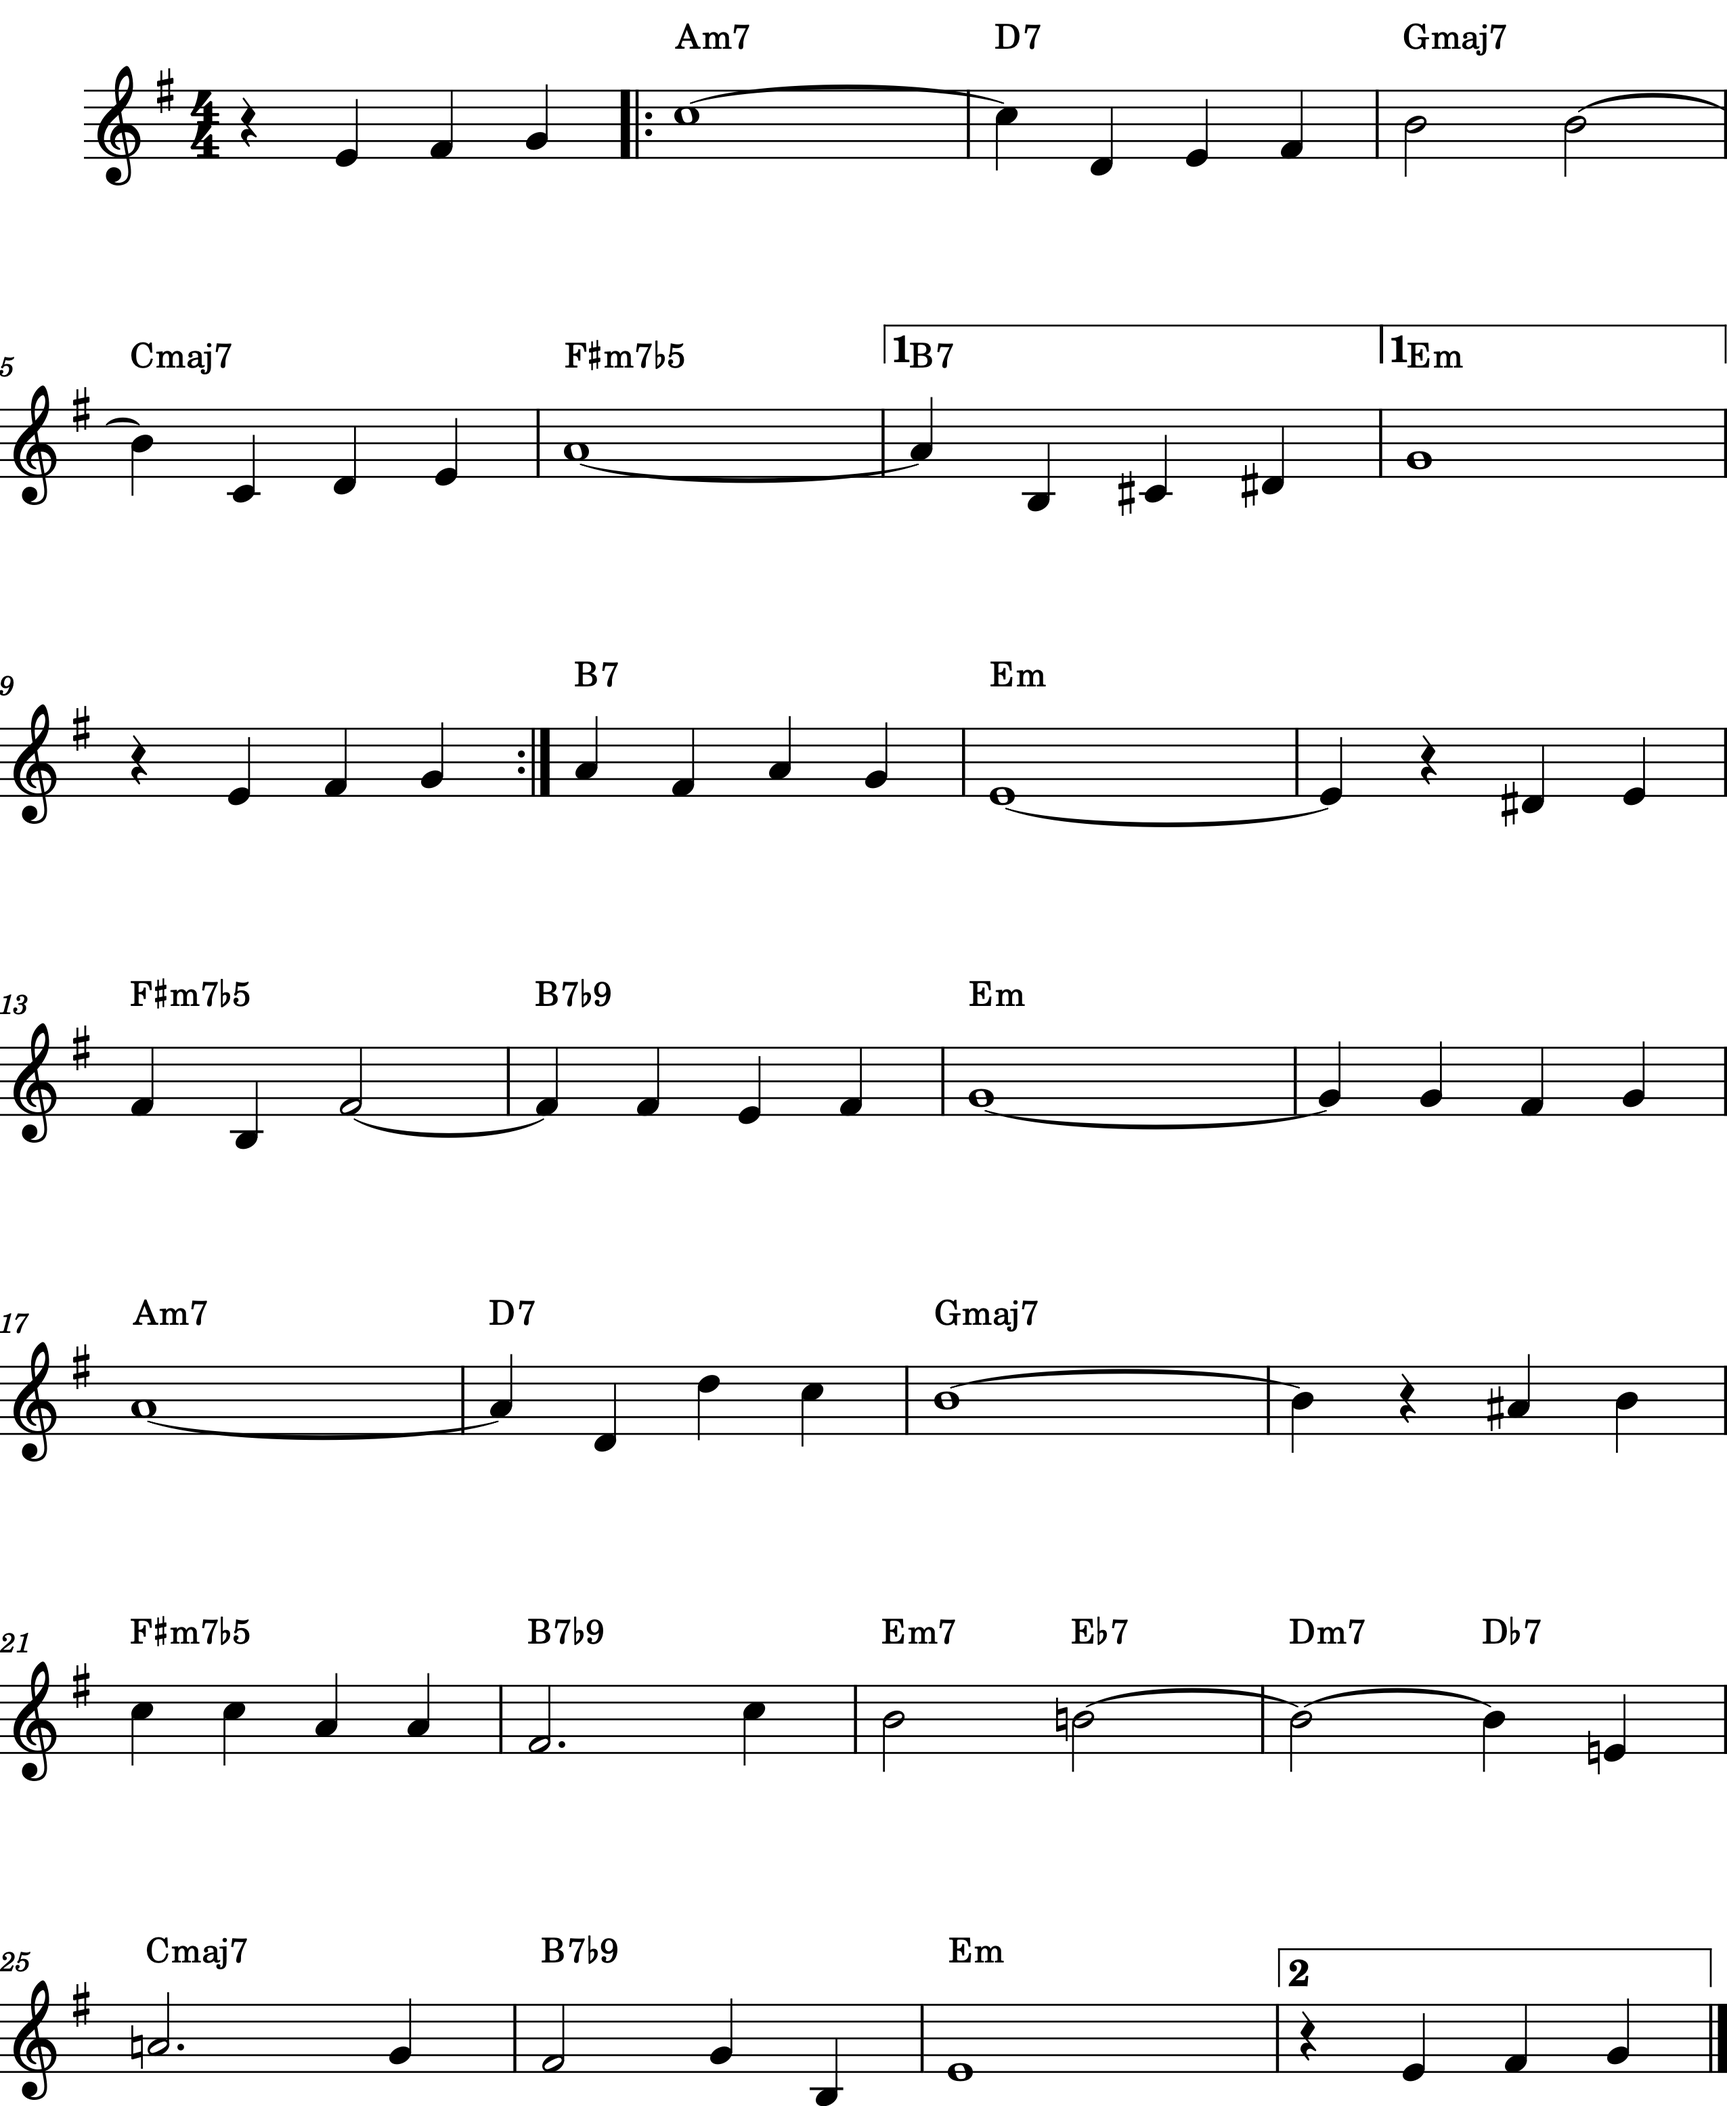
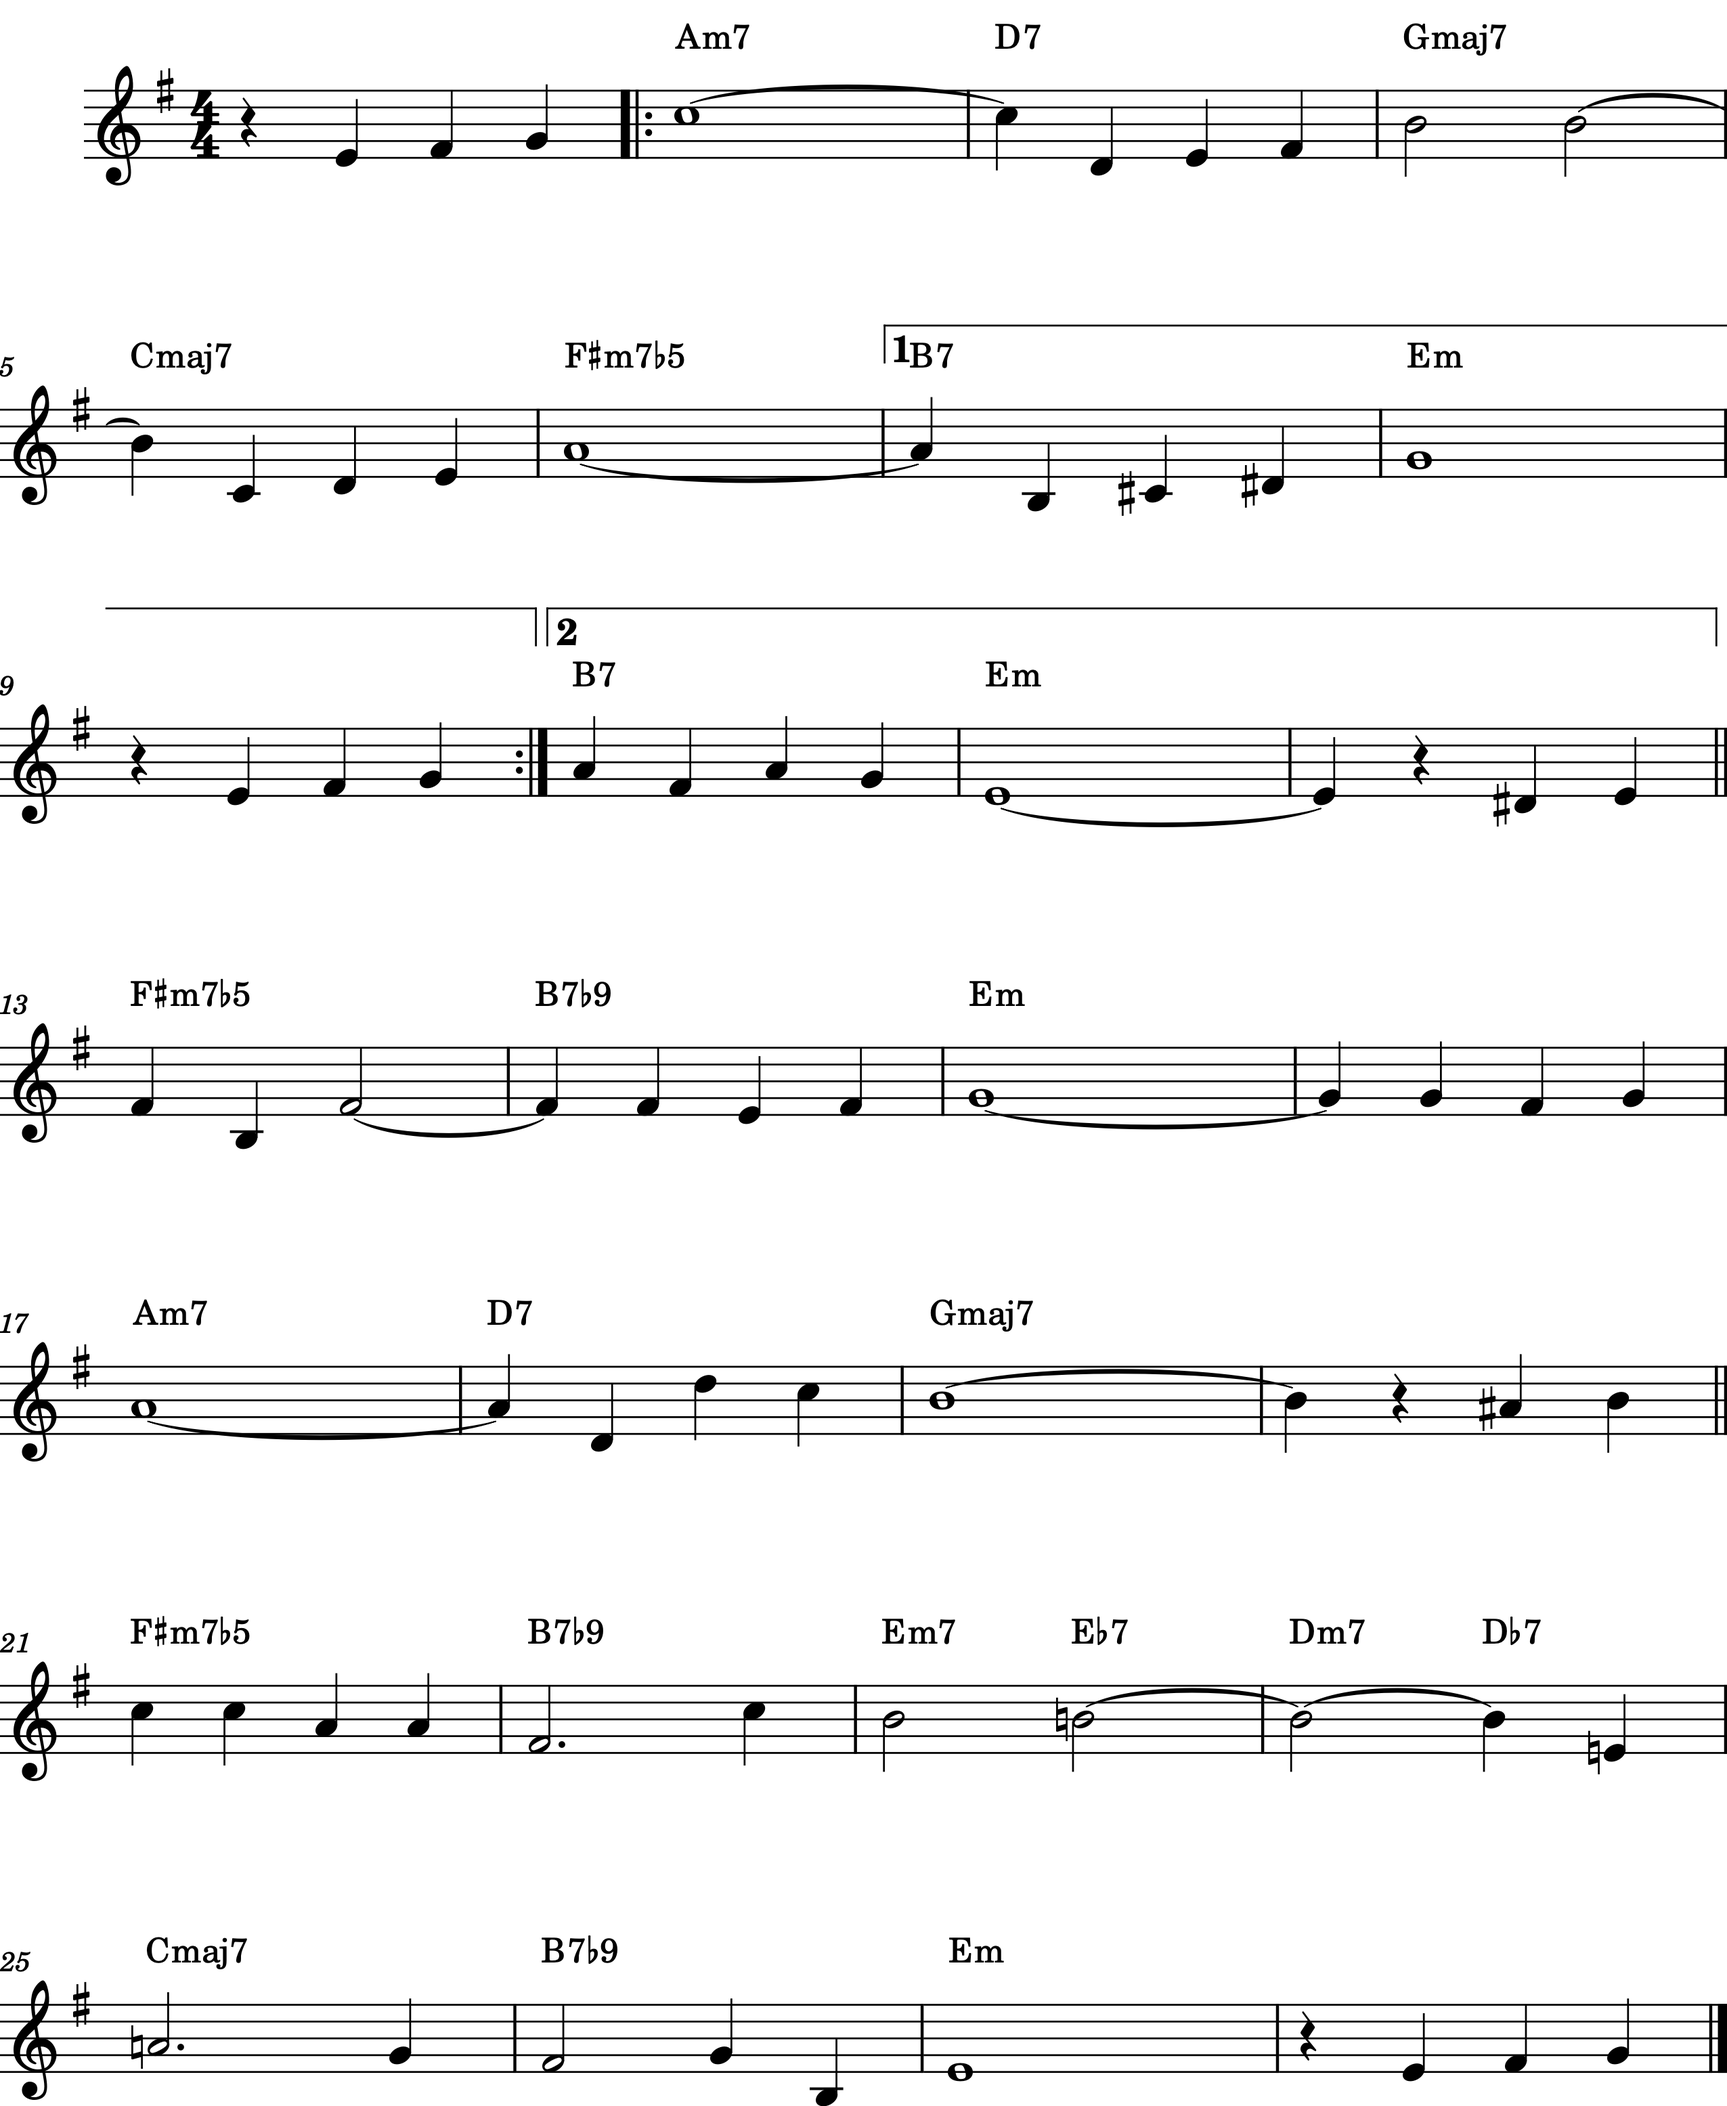
Add files via upload

diff --git a/looper-app/songs/lonnies-lament/image_gen.py b/looper-app/songs/lonnies-lament/image_gen.py
@@ -143,9 +143,6 @@ def music(info: list, notes: str, song_name: str, midi=False, swing=False):
             repeat_number = int(new_v[0])
             vol = int(new_v[1]) - 1
             measures[vol].append(spanner.RepeatBracket(measures[vol], number=repeat_number))
-
-    
-    measures[6].append(spanner.RepeatBracket(measures[6:9], number=1))
     
     part = stream.Part()
     for m in measures:
@@ -160,18 +157,16 @@ def music(info: list, notes: str, song_name: str, midi=False, swing=False):
         remove(join(current_dir, song_name + ".musicxml"))
         rename(join(current_dir, song_name + "-1.png"), join(current_dir, song_name + ".png"))
 
+# EXAMPLES
+# c5/1 is middle C quarter note length
+# !cmaj7 is a chord symbol for Cmaj7
+# { starts a tie, } ends a tie
+# ^ ends the current measure and starts a new line
+# [2s]9e[ puts a start repeat on the 2nd measure, end repeat on the 9th measure
+# ]i1i7-9@i2i10-12] puts a repeat bracket over measures 7-9 with a 1, and a bracket
+# over 10-12 with a 2
+# |12&20| puts double barlines on measures 12 and 20
+info = ["Treble", C, "4/4"]
+notes = "r/3 g4/.5 f4/.5 !cm7 e-4/1.5 d4/.25 c4/.25 !dm7 d4/.5 f4/1.5 !e-maj7"
 
-info = ["Treble", G, "4/4"]
-notes = "r/1 e4/1 f#4/1 g4/1 !am7 c5/4{ !d7 c5/1} d4/1 e4/1 f#4/1 !gmaj7 b4/2 b4/2{ ^"
-notes += " !cmaj7 b4/1} c4/1 d4/1 e4/1 !f#m7b5 a4/4{ !b7 a4/1} b3/1 c#4/1 d#4/1 !em g4/4 ^"
-notes += " r/1 e4/1 f#4/1 g4/1 !b7 a4/1 f#4/1 a4/1 g4/1 !em e4/4{ e4/1} r/1 d#4/1 e4/1 ^"
-
-notes += " !f#m7b5 f#4/1 b3/1 f#4/2{ !b7b9 f#4/1} f#4/1 e4/1 f#4/1 !em g4/4{ g4/1} g4/1 f#4/1 g4/1 ^"
-notes += " !am7 a4/4{ !d7 a4/1} d4/1 d5/1 c5/1 !gmaj7 b4/4{ b4/1} r/1 a#4/1 b4/1 ^"
-
-notes += " !f#m7b5 c5/1 c5/1 a4/1 a4/1 !b7b9 f#4/3 c5/1 !em7 b4/2 !e-7 b4/2{ !dm7 b4/2{ !d-7 b4/1} e4/1 ^"
-notes += " !cmaj7 a4/3 g4/1 !b7b9 f#4/2 g4/1 b3/1 !em e4/4 r/1 e4/1 f#4/1 g4/1"
-
-notes += " [2s]9e[ ]i1i7-9@i2i10-12] |12&20|"
-
-music(info, notes, "Autumn Leaves", False, False)
+music(info, notes, "Lonnie's Lament", False, False)

diff --git a/looper-app/songs/lonnies-lament/midi_mapping.py b/looper-app/songs/lonnies-lament/midi_mapping.py
@@ -1,0 +1,48 @@
+tap_snare = 27
+acoustic_drum = 35
+bass_drum_1 = 36
+side_stick = 37
+acoustic_snare = 38
+hand_clap = 39
+electric_snare = 40
+low_floor_tom = 41
+closed_hi_hat = 42
+high_floor_tom = 43
+pedal_hi_hat = 44
+low_tom = 45
+open_hi_hat = 46
+low_mid_tom = 47
+hi_mid_tom = 48
+crash_cymbal_1 = 49
+high_tom = 50
+ride_cymbal_1 = 51
+chinese_cymbal = 52
+ride_bell = 53
+tambourine = 54
+splash_cymbal = 55
+cowbell = 56
+crash_cymbal_2 = 57
+vibraslap = 58
+ride_cymbal_2 = 59
+hi_bongo = 60
+low_bongo = 61
+mute_hi_conga = 62
+open_hi_conga = 63
+low_conga = 64
+high_timbale = 65
+low_timbale = 66
+high_agogo = 67
+low_agogo = 68
+cabasa = 69
+maracas = 70
+short_whistle = 71
+long_whistle = 72
+short_guiro = 73
+long_guiro = 74
+claves = 75
+hi_wood_block = 76
+low_wood_block = 77
+mute_cuica = 78
+open_cuica = 79
+mute_triangle = 80
+open_triangle = 81

diff --git a/looper-app/songs/lonnies-lament/note_lengths.py b/looper-app/songs/lonnies-lament/note_lengths.py
@@ -1,0 +1,8 @@
+whole_note = 4
+half_note = 2
+quarter_note = 1
+eighth_note = 0.5
+sixteenth_note = 0.25
+triplet_quarter_note = 0.3333333333333333
+triplet_eighth_note = 0.1666666666666667
+triplet_sixteenth_note = 0.0833333333333333
